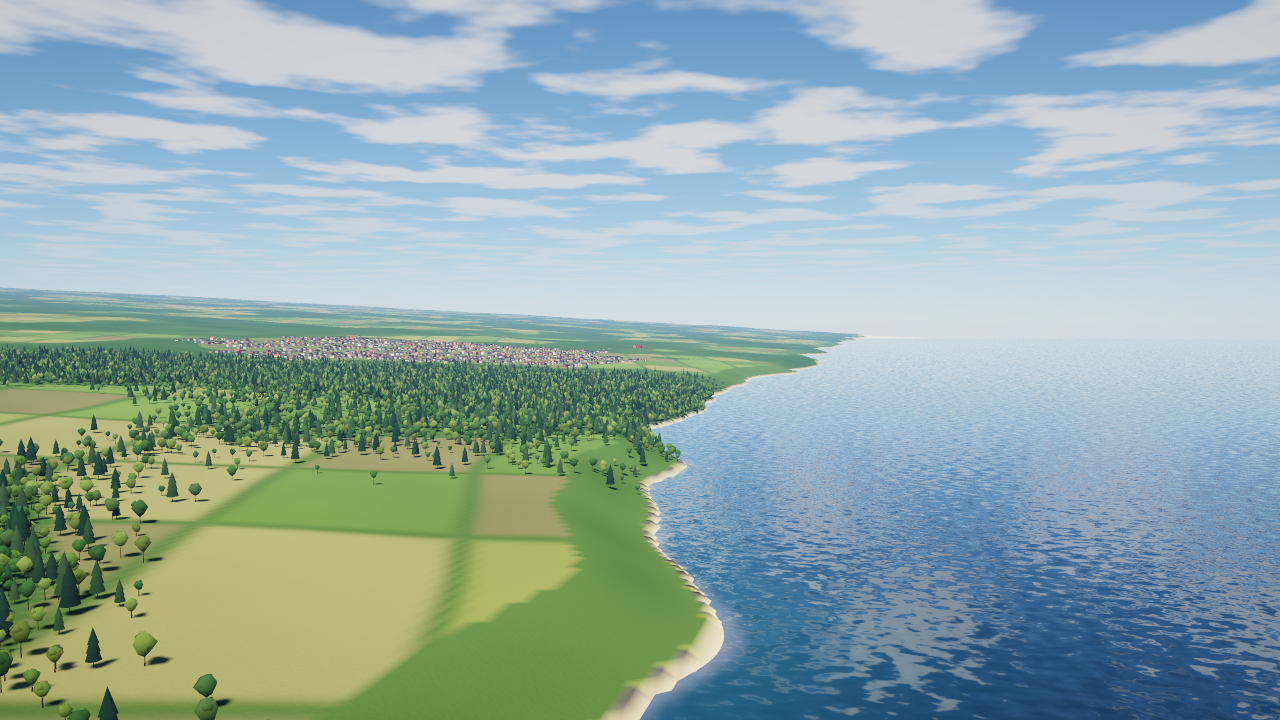
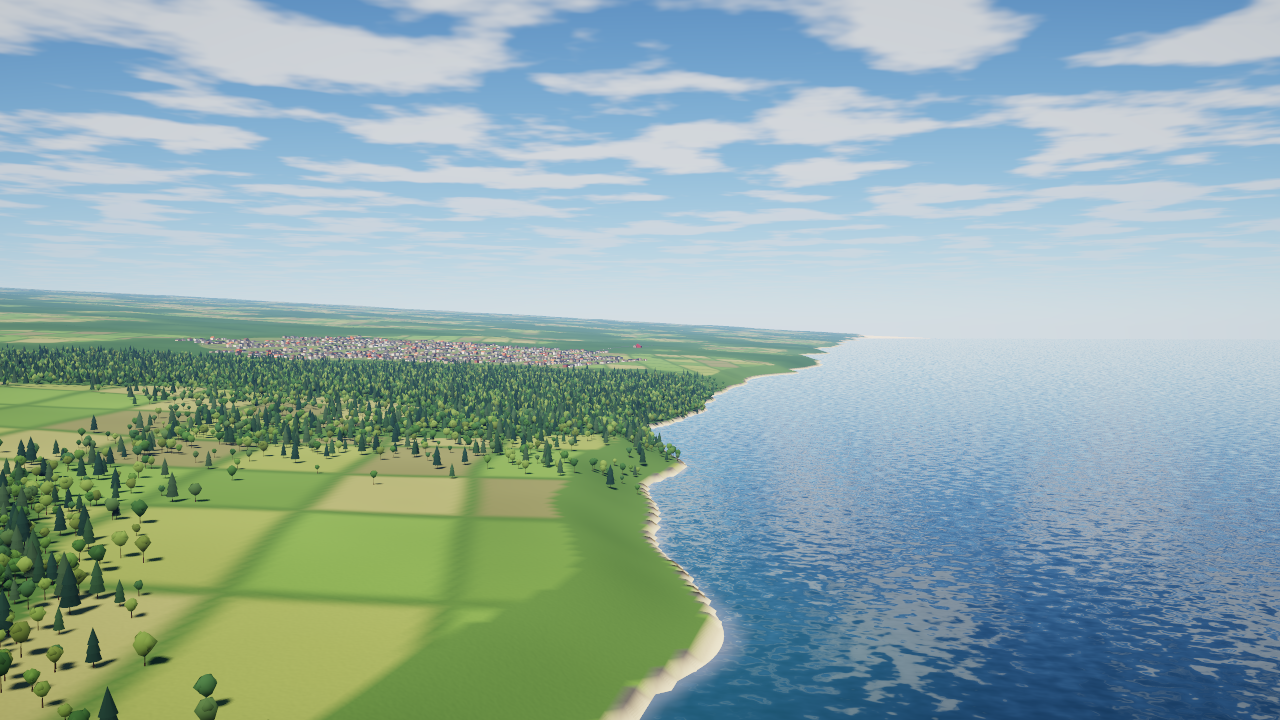
[P1.3] Fields under the approach: no canopy tint in cleared corridors, smaller parcels
Claude-Session: https://claude.ai/code/session_01LuDJ4arcj2AiLQbMi9mk9u

diff --git a/Packages/SkyforgeKit/Sources/SFPreview/SceneBuilder.swift b/Packages/SkyforgeKit/Sources/SFPreview/SceneBuilder.swift
@@ -35,7 +35,10 @@ public struct SceneBuilder {
                                                            moisture: moisture, distanceToWater: distWater))
         var c = GroundPalette.colour(biome, season: generator.season)
         let settle = generator.settlementDensity(x, y)
-        let forestMask = smoothstep(-0.25, 0.15, moistureNoise.fbm(x / 1_100 + 9, y / 1_100, octaves: 3))
+        // Approach corridors are cleared of trees, so they must not wear the canopy tint either
+        // (art review: the final approach was one uniform canopy-green lawn).
+        let cleared = terrain.isApproachCorridor(x, y) || terrain.isAirport(x, y)
+        let forestMask = cleared ? 0 : smoothstep(-0.25, 0.15, moistureNoise.fbm(x / 1_100 + 9, y / 1_100, octaves: 3))
         if (biome == .temperateForest || biome == .boreal) && settle < 0.32 {
             // Distant forest canopy tint (trees are only instanced near the camera).
             let canopy: LinearRGB = biome == .boreal ? srgb(40, 56, 40) : (generator.season == .autumn ? srgb(92, 84, 50) : srgb(52, 76, 40))
@@ -104,12 +107,12 @@ public struct SceneBuilder {
     }
 
     func fieldColour(_ x: Double, _ y: Double, base: SIMD3<Float>) -> SIMD3<Float> {
-        // Patchwork of fields in rotated 160 x 240 m parcels, colour by crop and season.
+        // Patchwork of fields in rotated 110 x 170 m parcels, colour by crop and season.
         let a = 0.35, c = cos(a), s = sin(a)
         // Low-frequency warp so parcel borders curve like real field boundaries.
         let wu = macroNoise.fbm(x / 420 + 7, y / 420, octaves: 2) * 28, wv = macroNoise.fbm(x / 420, y / 420 - 9, octaves: 2) * 28
         let u = c * x + s * y + wu, v = -s * x + c * y + wv
-        let iu = Int((u / 160).rounded(.down)), iv = Int((v / 240).rounded(.down))
+        let iu = Int((u / 110).rounded(.down)), iv = Int((v / 170).rounded(.down))   // smaller parcels: one no longer fills a low view
         let h = Hash.int(iu, iv, seed: Hash.combine(terrain.seed, 0xF1E1D))
         // Muted, art-directed crop palette (stubble, ploughed soil, winter wheat, pasture).
         let crops: [LinearRGB] = generator.season == .autumn
@@ -118,11 +121,11 @@ public struct SceneBuilder {
         var col = crops[Int(h % UInt64(crops.count))]
         // A 4.8 m crop-row pattern cannot be represented at terrain-vertex spacing (it aliased into
         // dark moiré bands); use a gentle per-field gradient across the parcel instead.
-        let fu = u / 160 - Double(iu), fv = v / 240 - Double(iv)
+        let fu = u / 110 - Double(iu), fv = v / 170 - Double(iv)
         let along = Hash.unit(Hash.mix(h)) < 0.5 ? fu : fv
         col *= Float(0.96 + 0.06 * along)
         // Soft hedgerow margins instead of hard parcel steps on the vertex grid (art review).
-        let edge = min(fu * 160, (1 - fu) * 160, fv * 240, (1 - fv) * 240)
+        let edge = min(fu * 110, (1 - fu) * 110, fv * 170, (1 - fv) * 170)
         let w = Float(smoothstep(0, 14, edge))
         let hedge = base * 0.92
         col = hedge + (col - hedge) * w

diff --git a/docs/VISUAL_LOG.md b/docs/VISUAL_LOG.md
@@ -148,3 +148,4 @@ Open defects (next passes): near-field ground is flat colour (needs detail textu
 - Applied: crease-aware smooth normals (50°) for the aircraft in previews and in Quick Flight, so the fuselage shades smoothly and the GGX lobe can glint.
 - Open: per-pixel parcels with thin hedgerows (d, e), river water shading and width variation (d), airport layout and terrain relief (j), slope detail (f), distant edges (a).
 - River water: ribbon split at the centre with a lighter shallow tint at the banks, width varying ±10 % along the river, and a 10 % reflection floor for wind-roughened water (seen from above it now carries sky colour instead of flat navy).
+- Fields: parcels 110 × 170 m (was 160 × 240); approach corridors and airport zones no longer wear the forest canopy tint (trees were cleared but the ground stayed canopy-green), so the final in (j) shows a field patchwork.

diff --git a/docs/VERIFICATION_LOG.md b/docs/VERIFICATION_LOG.md
@@ -98,3 +98,4 @@ Every gate run, CI run and manual verification. Newest at the bottom.
 - 2026-11-08T15:02:26Z gate fast on Linux x86_64: PASS (HEAD 16be5ae)
 - 2026-11-08T15:10:40Z gate fast on Linux x86_64: PASS (HEAD 62d3dab)
 - 2026-11-08T15:18:38Z gate fast on Linux x86_64: PASS (HEAD d8f16dc)
+- 2026-11-08T15:39:28Z gate fast on Linux x86_64: PASS (HEAD dedf69a)
